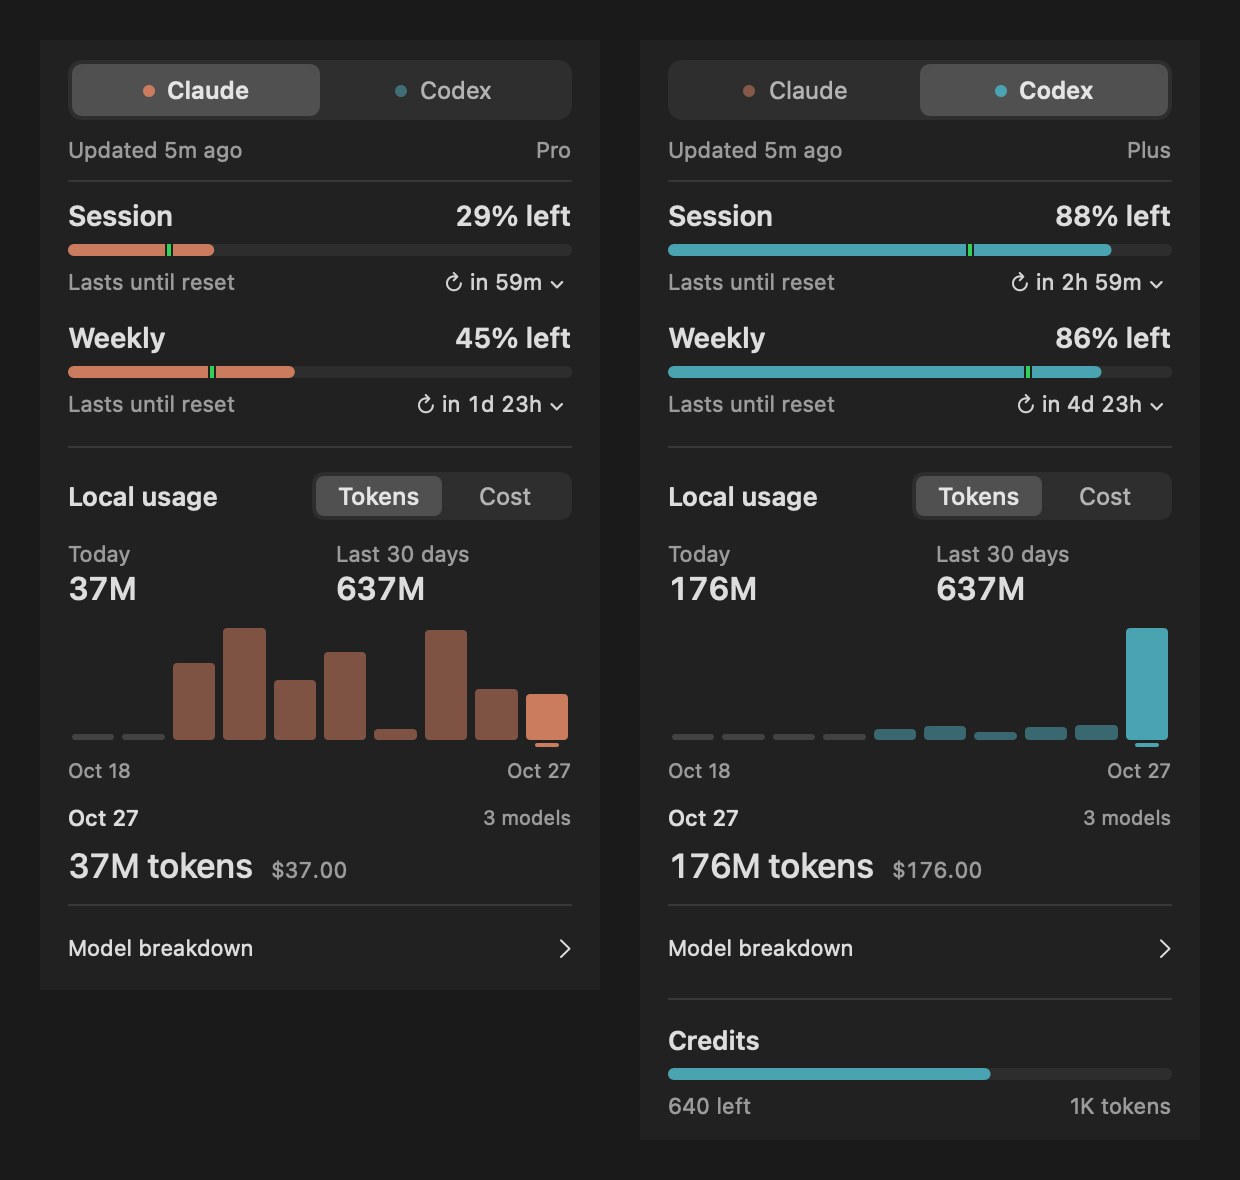
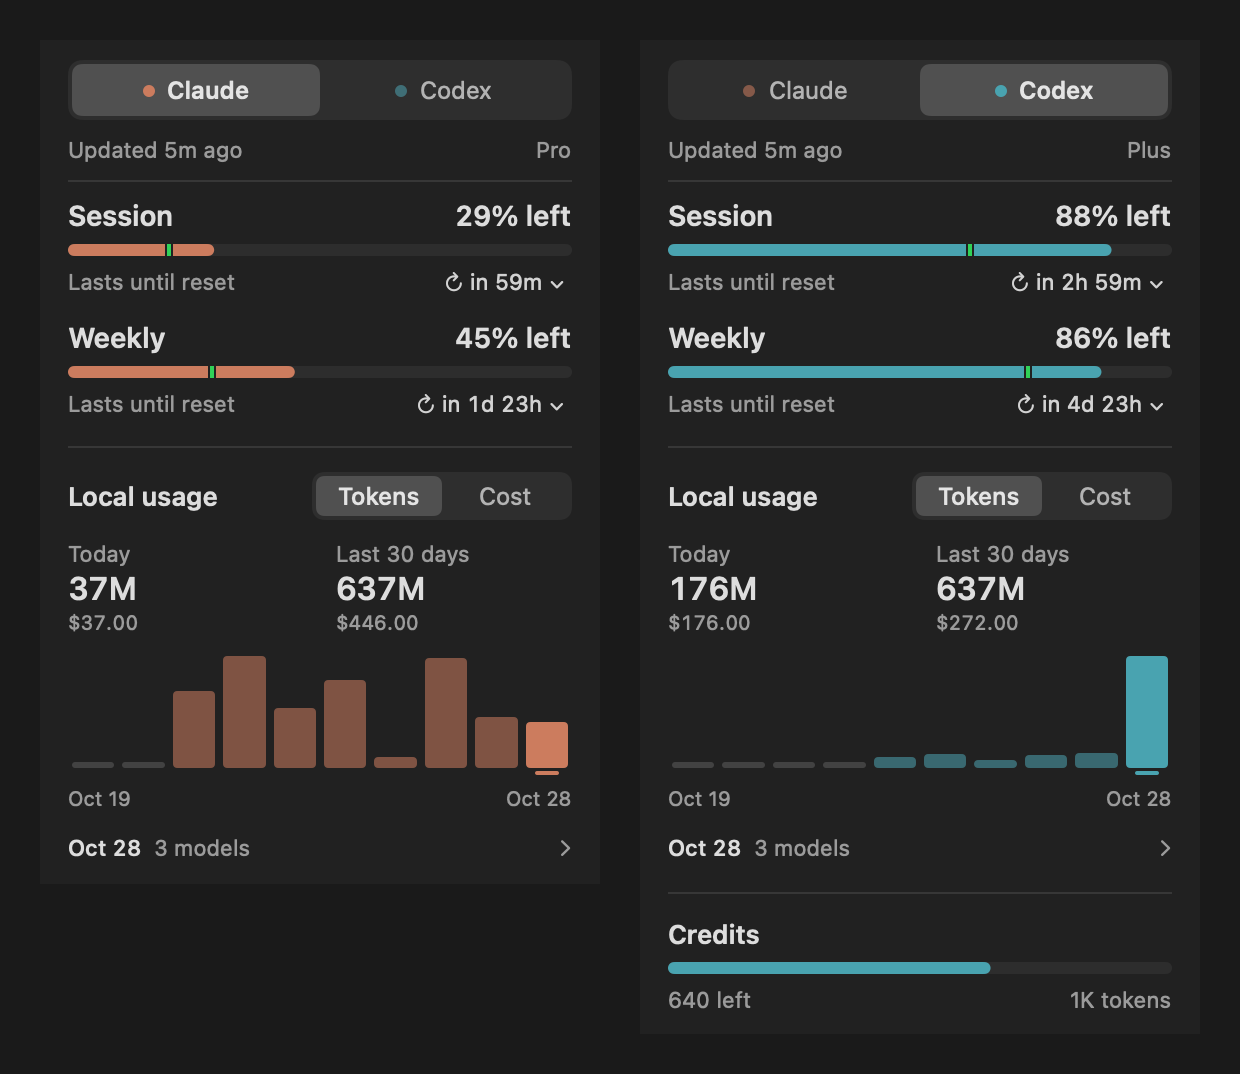
feat(cost): read the selected day out in the usage summary (#28)
## Summary

The selected day is now read out in the Local usage summary, as a stock
chart's header follows the pointer. The day detail block under the chart
shrinks to one row that opens the model list.

```diff
 <CostSectionView>
   kpiRow
-    Today            176M
+    Today | Oct 27   176M        # follows the hovered or pinned day
+                     $176.00     # the other unit, under both figures
     Last 30 days     637M
+                     $272.00
   chart
-  dayDetail                      # date, model count, big total, divider
-  modelDisclosure                # "Model breakdown ›" row
+  dayDetail                      # one row: "Oct 28  3 models ›", opens the list
     breakdownRow × n             # unchanged: tool mark, Fast bolt, share bar
```

- A day with no models shows "No usage" (or "Not scanned yet") and
cannot be opened.
- A one-model day reads "1 model", not "1 models".
- `--dump-card`'s hover state now hovers an earlier day, so it shows the
readout moving off Today.

## Evidence

- **Before:**
<img
src="https://github.com/softmaxe/quota-bar/blob/6934785/docs/images/interactions/main-dark.png?raw=true"
width="280">
  **After:**
<img
src="https://github.com/softmaxe/quota-bar/blob/7d30f55/docs/images/interactions/main-dark.png?raw=true"
width="280">

- `make test`: 1147 checks passed.

## Merge Danger

**Door:** two-way

View-only change; no stored data or preferences change.

**Blast Radius:** layout
[…]

diff --git a/Sources/QuotaBarApp/CostSectionView.swift b/Sources/QuotaBarApp/CostSectionView.swift
@@ -11,10 +11,11 @@ struct CostSectionView: View {
     /// Nonzero bars start one point taller and in the accent, so small usage never reads as none.
     private static let emptyStubHeight: CGFloat = 3
     private static let minimumBarHeight: CGFloat = 4
+    /// How far the day summary's hover highlight reaches past its text.
+    private static let summaryInset: CGFloat = 6
     /// A row is a line of text over its share bar.
     static let breakdownLayout = CostBreakdownLayout(
         rowHeight: 21,
-        toggleHeight: 22,
         spacing: 7
     )
 
@@ -22,6 +23,7 @@ struct CostSectionView: View {
     @State private var hoveredDayKey: String?
     @State private var detailDayKey: String?
     @State private var pinnedDayKey: String?
+    @State private var summaryHovered = false
     @FocusState private var focusedDayKey: String?
 
     private let todayDayKey: String
@@ -84,7 +86,6 @@ struct CostSectionView: View {
             self.kpiRow
             self.chart
             self.dayDetail
-            self.modelDisclosure
         }
         .onChange(of: self.snapshot) { previous, current in
             self.reconcileSelection(providerChanged: previous.provider != current.provider)
@@ -142,43 +143,42 @@ struct CostSectionView: View {
         }
     }
 
+    /// The left figure reads out the selected day, as a stock chart's header follows the pointer;
+    /// it says Today until another day is hovered or pinned.
     private var kpiRow: some View {
-        HStack(alignment: .top, spacing: 16) {
+        let day = self.shownDay
+        let unobserved = self.isUnobserved(day.dayKey)
+        let dayTokens = Formatters.tokens(day.tokens.total)
+        let dayCost = self.costValue(day.costAvailability)
+        let windowTokens = Formatters.tokens(self.snapshot.windowTokens)
+        let windowCost = self.costValue(self.snapshot.windowCostAvailability)
+        let showsTokens = self.selectedLabelMode == .tokens
+        return HStack(alignment: .top, spacing: 16) {
             self.kpi(
-                label: "Today",
-                value: self.isUnobserved(self.todayDayKey) ? "—" : self.selectedLabelMode == .tokens
-                    ? Formatters.tokens(self.todayDay.tokens.total)
-                    : self.costValue(self.todayDay.costAvailability),
-                status: self.isUnobserved(self.todayDayKey) ? "Not scanned yet" : nil
+                label: day.dayKey == self.todayDayKey ? "Today" : Formatters.dayLabel(day.dayKey),
+                value: unobserved ? "—" : showsTokens ? dayTokens : dayCost,
+                detail: unobserved ? "Not scanned yet" : showsTokens ? dayCost : "\(dayTokens) tokens"
             )
             self.kpi(
                 label: "Last 30 days",
-                value: self.selectedLabelMode == .tokens
-                    ? Formatters.tokens(self.snapshot.windowTokens)
-                    : self.costValue(self.snapshot.windowCostAvailability),
-                status: nil
+                value: showsTokens ? windowTokens : windowCost,
+                detail: showsTokens ? windowCost : "\(windowTokens) tokens"
             )
         }
     }
 
-    private var needsKPIStatusRow: Bool {
-        self.isUnobserved(self.todayDayKey)
-    }
-
-    private func kpi(label: String, value: String, status: String?) -> some View {
+    private func kpi(label: String, value: String, detail: String) -> some View {
         VStack(alignment: .leading, spacing: 1) {
             Text(label).font(.system(size: 11)).foregroundStyle(.secondary)
-            // Keyed to the data rather than the text: a rescan rolls the value, a unit change swaps it.
+            // Keyed to the data rather than the text: a rescan rolls the value, a unit change or
+            // another day swaps it.
             Text(value).font(.system(size: 16, weight: .semibold)).monospacedDigit()
                 .rollingValue(self.snapshot)
-            if self.needsKPIStatusRow {
-                Text(status ?? " ")
-                    .font(.system(size: 10))
-                    .foregroundStyle(.secondary)
-                    .lineLimit(1)
-                    .opacity(status == nil ? 0 : 1)
-                    .accessibilityHidden(status == nil)
-            }
+            Text(detail)
+                .font(.system(size: 10))
+                .foregroundStyle(.secondary)
+                .monospacedDigit()
+                .lineLimit(1)
         }
         .frame(maxWidth: .infinity, alignment: .leading)
         .accessibilityElement(children: .combine)
@@ -389,79 +389,50 @@ struct CostSectionView: View {
         self.bars.first { $0.dayKey == self.selectedDayKey }
     }
 
-    private var dayDetail: some View {
-        VStack(alignment: .leading, spacing: 7) {
-            HStack {
-                Text(self.selectedDay.map { Formatters.dayLabel($0.dayKey) } ?? "Day")
-                    .font(.system(size: 11, weight: .medium))
-                Spacer(minLength: 4)
-                if let day = self.selectedDay, !day.byModel.isEmpty {
-                    Text("\(day.byModel.count) models")
-                        .font(.system(size: 10))
-                        .foregroundStyle(.secondary)
-                }
-            }
-            if let day = self.selectedDay {
-                if self.isUnobserved(day.dayKey) {
-                    HStack(alignment: .firstTextBaseline, spacing: 9) {
-                        Text("—")
-                            .font(.system(size: 17, weight: .medium))
-                        Text("Not scanned yet")
-                            .font(.system(size: 11))
-                            .foregroundStyle(.secondary)
-                    }
-                    .frame(height: 22, alignment: .top)
-                } else {
-                    HStack(alignment: .firstTextBaseline, spacing: 9) {
-                        let cost = self.costValue(day.costAvailability)
-                        let tokens = "\(Formatters.tokens(day.tokens.total)) tokens"
-                        // Hovering or selecting another day swaps the values; the bar highlight
-                        // already shows where the selection moved.
-                        let primary = self.selectedLabelMode == .tokens ? tokens : cost
-                        let secondary = self.selectedLabelMode == .tokens ? cost : tokens
-                        Text(primary)
-                            .font(.system(size: 17, weight: .medium))
-                            .lineLimit(1)
-                            .minimumScaleFactor(0.8)
-                        Text(secondary)
-                            .font(.system(size: 11))
-                            .foregroundStyle(.secondary)
-                            .lineLimit(1)
-                            .minimumScaleFactor(0.8)
-                    }
-                    .monospacedDigit()
-                    .frame(height: 22, alignment: .top)
-                }
-            }
-            Divider()
-        }
+    /// The day the figures and the model list describe: the selected one, or today before any
+    /// day has data.
+    private var shownDay: CostDay {
+        self.selectedDay ?? self.todayDay
     }
 
-    private var modelDisclosure: some View {
+    /// A single row under the chart opens the shown day's model list; its totals are already in
+    /// the figures above.
+    @ViewBuilder
+    private var dayDetail: some View {
+        let ranked = self.selectedDay?.rankedModels(by: self.selectedLabelMode) ?? []
+        let dayTotal = ranked.reduce(0) { $0 + self.breakdownValue($1.usage) }
+        // A day with no models has nothing to open, unless the list is already open and has to
+        // close again.
+        let canToggle = !ranked.isEmpty || self.isBreakdownExpanded
         VStack(alignment: .leading, spacing: 0) {
-            Button {
-                self.onBreakdownExpandedChanged(!self.isBreakdownExpanded, self.selectedDayKey)
-            } label: {
-                HStack {
-                    Text("Model breakdown")
-                    Spacer(minLength: 4)
-                    Image(systemName: "chevron.right")
-                        .rotationEffect(.degrees(self.breakdownOpenness * 90))
-                        .animation(DisclosureMotion.open(
-                            reduceMotion: CostChartHoverMotion.systemReduceMotion
-                        ), value: self.breakdownOpenness)
+            if canToggle {
+                Button {
+                    self.onBreakdownExpandedChanged(!self.isBreakdownExpanded, self.selectedDayKey)
+                } label: {
+                    self.dayToggleLabel(models: ranked.count, showsChevron: true)
+                        .padding(.horizontal, Self.summaryInset)
+                        .padding(.vertical, Self.summaryInset / 2)
+                        .contentShape(Rectangle())
                 }
-                .font(.system(size: 11))
-                .contentShape(Rectangle())
-                .frame(height: CGFloat(Self.breakdownLayout.toggleHeight))
+                .buttonStyle(ControlFeedbackStyle(pressScale: CardMotion.rowPressScale))
+                .background(
+                    self.summaryHovered ? Color.primary.opacity(0.06) : .clear,
+                    in: RoundedRectangle(cornerRadius: 5)
+                )
+                .animation(
+                    CostChartHoverMotion.systemReduceMotion ? nil : .easeOut(duration: 0.10),
+                    value: self.summaryHovered
+                )
+                // The highlight reaches past the text; the text stays aligned with the card.
+                .padding(.horizontal, -Self.summaryInset)
+                .padding(.vertical, -Self.summaryInset / 2)
+                .onHover { self.summaryHovered = $0 }
+                .accessibilityValue(self.isBreakdownExpanded ? "Expanded" : "Collapsed")
+                .accessibilityHint(self.isBreakdownExpanded ? "Collapse model list" : "Expand model list")
+            } else {
+                self.dayToggleLabel(models: ranked.count, showsChevron: false)
             }
-            .buttonStyle(ControlFeedbackStyle(pressScale: CardMotion.rowPressScale))
-            .accessibilityLabel("Model breakdown")
-            .accessibilityValue(self.isBreakdownExpanded ? "Expanded" : "Collapsed")
-            .accessibilityHint(self.isBreakdownExpanded ? "Collapse model list" : "Expand model list")
 
-            let ranked = self.selectedDay?.rankedModels(by: self.selectedLabelMode) ?? []
-            let dayTotal = ranked.reduce(0) { $0 + self.breakdownValue($1.usage) }
             VStack(alignment: .leading, spacing: 0) {
                 if self.isBreakdownExpanded {
                     // The height cuts open; the rows rise into place together, like every other
@@ -488,6 +459,37 @@ struct CostSectionView: View {
             .opacity(self.breakdownOpenness)
             .accessibilityHidden(self.breakdownOpenness < 1)
         }
+    }
+
+    private func dayToggleLabel(models: Int, showsChevron: Bool) -> some View {
+        let day = self.shownDay
+        let count = switch models {
+        case 0: self.isUnobserved(day.dayKey) ? "Not scanned yet" : "No usage"
+        case 1: "1 model"
+        default: "\(models) models"
+        }
+        return HStack(spacing: 6) {
+            Text(Formatters.dayLabel(day.dayKey))
+                .fontWeight(.medium)
+            Text(count)
+                .foregroundStyle(.secondary)
+            Spacer(minLength: 4)
+            if showsChevron {
+                Image(systemName: "chevron.right")
+                    .font(.system(size: 9, weight: .semibold))
+                    .foregroundStyle(.secondary)
+                    .rotationEffect(.degrees(self.breakdownOpenness * 90))
+                    .animation(DisclosureMotion.open(
+                        reduceMotion: CostChartHoverMotion.systemReduceMotion
+                    ), value: self.breakdownOpenness)
+                    .accessibilityHidden(true)
+            }
+        }
+        .font(.system(size: 11))
+        .monospacedDigit()
+        .lineLimit(1)
+        .frame(height: 16)
+        .frame(maxWidth: .infinity, alignment: .leading)
     }
 
     /// The tool's mark and the model's name over a bar of its share of the day, in the chosen unit.

diff --git a/Sources/QuotaBarApp/CardDump.swift b/Sources/QuotaBarApp/CardDump.swift
@@ -319,10 +319,12 @@ enum CardDump {
         ]
         let errors = ["claude-rate-limited": "Claude usage API rate-limited. Try again after 4:24 PM."]
 
-        // Capture both the idle and hovered states, since the dump has no pointer.
+        // Capture both the idle and hovered states, since the dump has no pointer. The hovered day
+        // is an earlier one, so the left figure shows it in place of Today.
         for (provider, cost) in costs {
             guard let today = cost.days.last,
-                  let hovered = cost.days.max(by: { ($0.costUSD ?? 0) < ($1.costUSD ?? 0) }) else { continue }
+                  let hovered = cost.days.dropLast().max(by: { ($0.costUSD ?? 0) < ($1.costUSD ?? 0) })
+            else { continue }
             for (name, hoveredDayKey) in [("idle", nil), ("hover", hovered.dayKey)] {
                 for mode in [CostChartLabelMode.tokens, .cost] {
                     let suffix = mode == .tokens ? "" : "-cost"

diff --git a/Sources/QuotaBarApp/CostChartHighlightPolicy.swift b/Sources/QuotaBarApp/CostChartHighlightPolicy.swift
@@ -89,10 +89,9 @@ enum CostChartHighlightPolicy {
     }
 }
 
-/// Sizing for the model breakdown rows and disclosure control.
+/// Sizing for the model breakdown rows.
 struct CostBreakdownLayout {
     let rowHeight: Double
-    let toggleHeight: Double
     let spacing: Double
 
     func rowsHeight(rows: Int) -> Double {

diff --git a/README.md b/README.md
@@ -154,9 +154,9 @@ QuotaBar counts tokens in local session logs and estimates what that usage would
 
 ### Reading the chart
 
-Choose **Tokens** or **Cost** above the chart. The chart shows the last 10 calendar days; the summary shows today and the last 30 days.
+Choose **Tokens** or **Cost** above the chart. The chart shows the last 10 calendar days; the summary shows the selected day and the last 30 days, each with its value in the other unit underneath.
 
-Hover to preview a day, click to pin it, or use the Left and Right Arrow keys when a date is focused. Expand **Model breakdown** to see that day's models and keep the date fixed. Each model shows the mark of the tool that used it and a bar of its share of the day in the chosen unit. Click the pinned day again, or reopen the card, to resume hover previews. Switching units keeps the selected date.
+Hover to preview a day, click to pin it, or use the Left and Right Arrow keys when a date is focused. The summary's first figure follows the selection and reads **Today** until another day is chosen. Click the row under the chart to list that day's models and keep the date fixed. Each model shows the mark of the tool that used it, a bolt for Fast usage, and a bar of its share of the day in the chosen unit. Click the pinned day again, or reopen the card, to resume hover previews. Switching units keeps the selected date.
 
 The chart distinguishes zero usage from missing data:
 
@@ -165,7 +165,7 @@ The chart distinguishes zero usage from missing data:
 | **0** or **$0.00** | The value rounds to zero. The chart shows a solid gray stub. Missing prices are marked separately. |
 | **—**, **Not scanned yet** | The date is later than the last completed scan and has no recorded usage. The chart shows a dashed stub. |
 | **—** in Cost view | Usage is recorded, but no rate applies. The chart shows a dashed stub. |
-| **No price** in Model breakdown | The model has no rate on that day. Cost totals include priced usage only, so they leave its tokens out. |
+| **No price** in a day's model list | The model has no rate on that day. Cost totals include priced usage only, so they leave its tokens out. |
 
 **Settings → Pricing** lists every model with its rates and where they come from. Unpriced models are local or free models, new Claude or OpenAI models the price book does not list yet, and Fast usage of models without a Fast multiplier.
 

diff --git a/README.zh-CN.md b/README.zh-CN.md
@@ -154,9 +154,9 @@ QuotaBar 统计本地会话日志中的 token，估算这些用量按 API 费率
 
 ### 查看图表
 
-在图表上方选择 **Tokens** 或 **Cost**。图表显示最近 10 个日历日，摘要显示当天和最近 30 天的总计。
+在图表上方选择 **Tokens** 或 **Cost**。图表显示最近 10 个日历日，摘要显示所选日期和最近 30 天的总计，下方小字是另一种单位的数值。
 
-悬停可预览某天，点击可固定日期，日期获得焦点后也可用左右方向键切换。展开 **Model breakdown** 可查看当天的模型明细，并固定日期。每个模型前显示所用工具的图标，下方的条表示它在当天所选单位中的占比。再次点击已固定的日期或重新打开卡片，可恢复悬停预览；切换单位会保留选中日期。
+悬停可预览某天，点击可固定日期，日期获得焦点后也可用左右方向键切换。摘要的第一个数值跟随所选日期，未选其他日期时显示 **Today**。点击图表下方那一行可展开当天的模型明细，并固定日期。每个模型前显示所用工具的图标，Fast 用量带闪电标记，下方的条表示它在当天所选单位中的占比。再次点击已固定的日期或重新打开卡片，可恢复悬停预览；切换单位会保留选中日期。
 
 图表区分零用量和缺失数据：
 
@@ -165,7 +165,7 @@ QuotaBar 统计本地会话日志中的 token，估算这些用量按 API 费率
 | **0** 或 **$0.00** | 数值在当前显示精度下为零，图表显示实心灰色短条。缺失费率会另行标注。 |
 | **—**、**Not scanned yet** | 该日期晚于最后一次完成扫描的日期，且没有记录到用量。图表显示虚线短条。 |
 | Cost 视图中的 **—** | 已记录用量，但没有适用的费率。图表显示虚线短条。 |
-| Model breakdown 中的 **No price** | 该模型在当天没有费率。成本合计只包含有费率的用量，不计入它的 token。 |
+| 模型明细中的 **No price** | 该模型在当天没有费率。成本合计只包含有费率的用量，不计入它的 token。 |
 
 **Settings → Pricing** 列出每个模型的费率及其来源。未计价的通常是本地或免费模型、价格表尚未收录的新 Claude 或 OpenAI 模型，以及没有 Fast 倍率的 Fast 用量。
 
